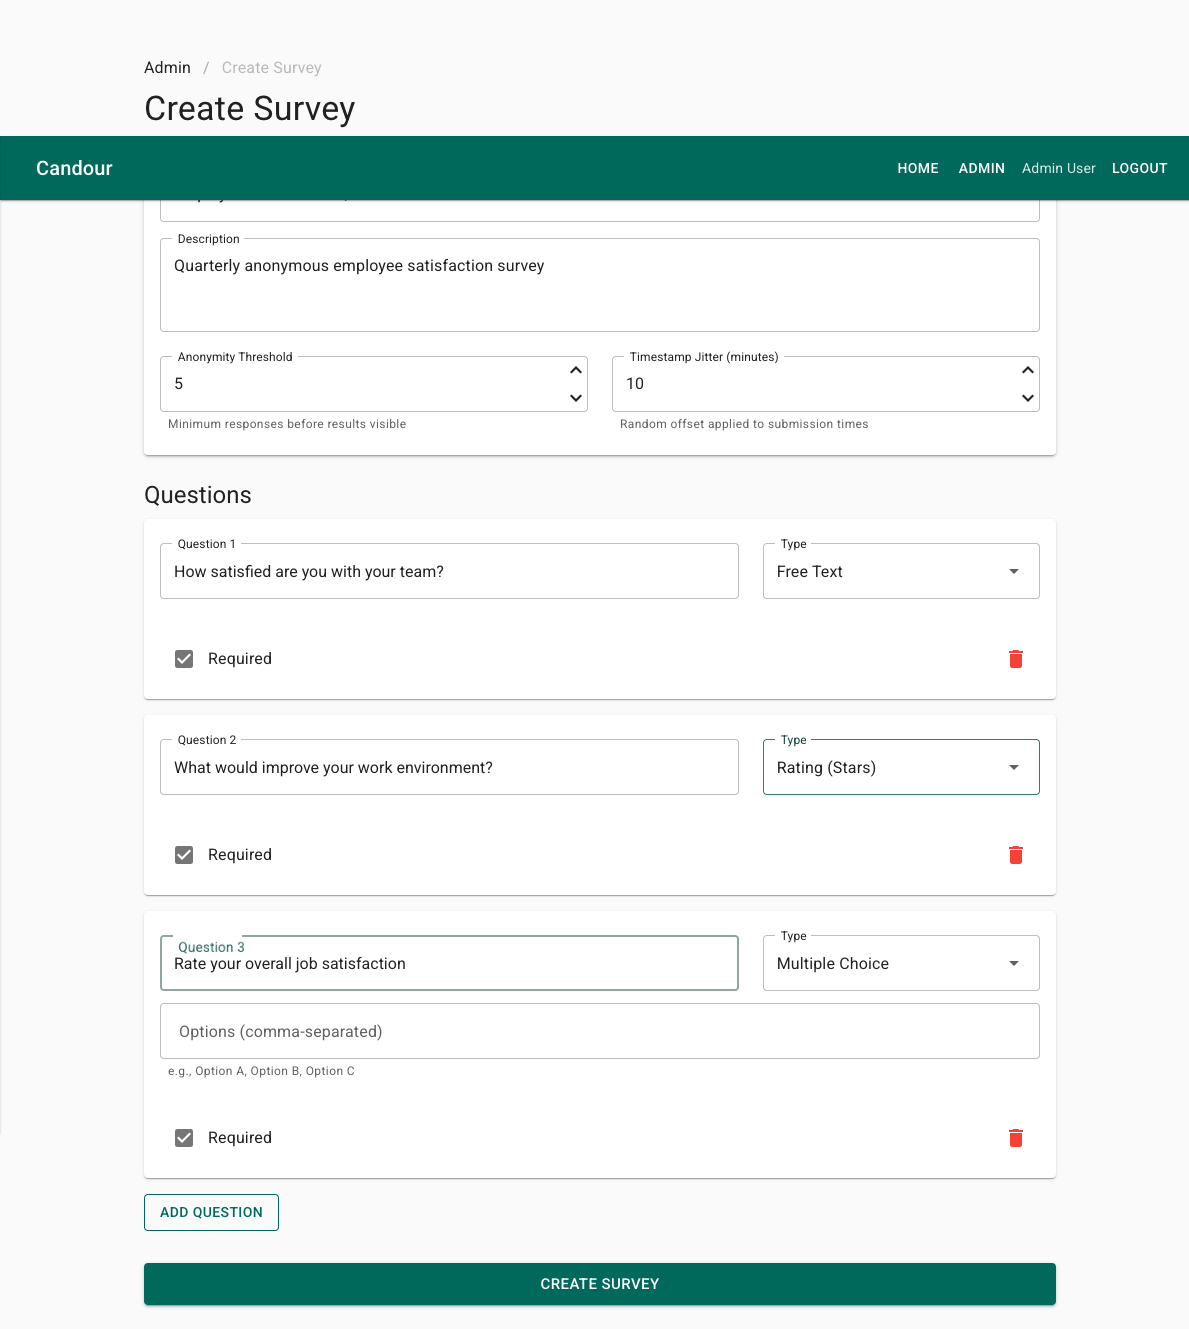
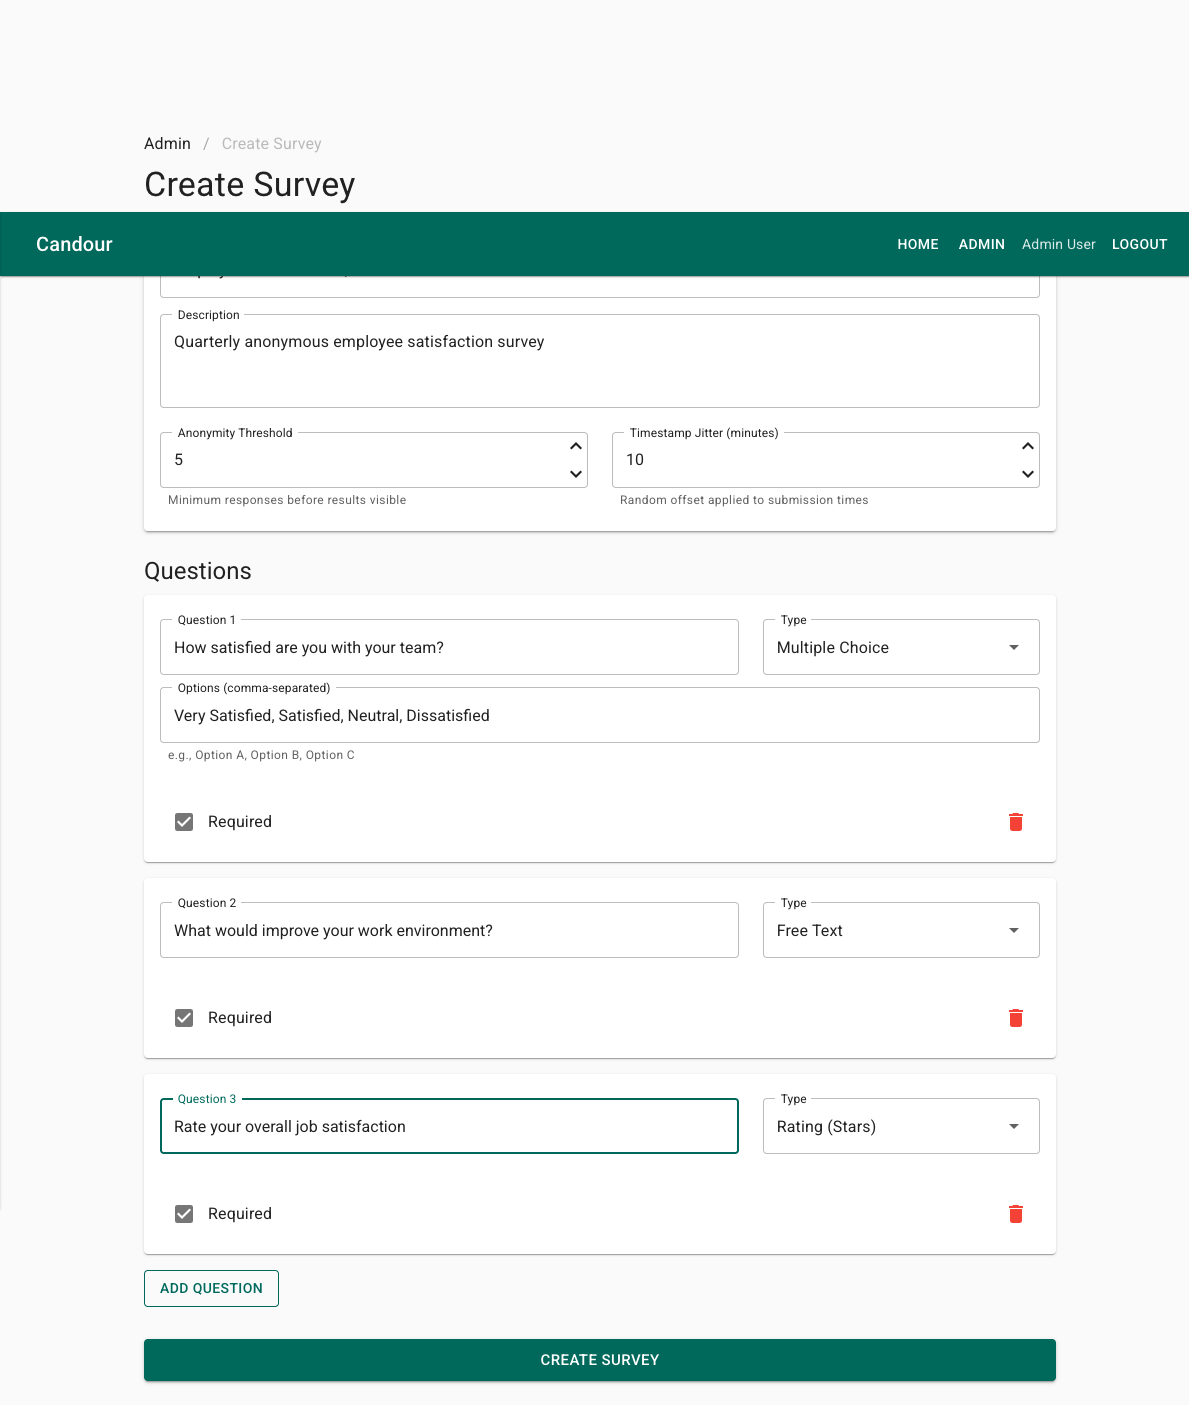
docs: recapture all 13 screenshots after spacing fix, remove design review notes
Screenshots retaken with correct 100px padding-top (no more app bar overlap).
PII redacted. Design review summary removed from USER-JOURNEYS.md.

diff --git a/docs/USER-JOURNEYS.md b/docs/USER-JOURNEYS.md
@@ -5,8 +5,8 @@
 **Date:** 2026-02-27
 **System:** Candour anonymity-first survey platform
 **Infra:** Azure Functions (Flex Consumption), Azure Cosmos DB (Serverless), Azure Static Web Apps
-**Frontend:** https://delightful-forest-005427103.4.azurestaticapps.net
-**API:** https://func-candour-waf2pjwfujduu.azurewebsites.net
+**Frontend:** https://app.candour.example
+**API:** https://api.candour.example
 
 ---
 
@@ -28,7 +28,7 @@
 - Teal app bar with Home / Admin / Logout navigation
 - H3 tagline with proper contrast (no longer pink)
 - Auth-aware CTA: "Get Started" (logged out) → "Go to Dashboard" (authenticated)
-- User name ("Andre Sachs") displayed in nav bar when authenticated
+- User name displayed in nav bar when authenticated
 - How It Works timeline: Create → Share → Analyze
 - Privacy by Design cards with Shield, Key, and Lock icons
 
@@ -85,7 +85,7 @@
 4. Expand "Show Tokens" panel
 5. Use "Copy All Links" to copy all token URLs
 
-**Expected:** Survey status changes to "Active". Token list shows FQDN links in format `https://delightful-forest-005427103.4.azurestaticapps.net/survey/{id}?t=TOKEN`. Each token has an individual copy button. "Copy All Links" copies all URLs to clipboard.
+**Expected:** Survey status changes to "Active". Token list shows FQDN links in format `https://app.candour.example/survey/{id}?t=TOKEN`. Each token has an individual copy button. "Copy All Links" copies all URLs to clipboard.
 
 **Evidence:**
 - ![Published survey with 100 tokens](screenshots/survey-published-tokens.png)
@@ -151,9 +151,9 @@
 
 **Verified:**
 - Breadcrumb navigation: Admin > Employee Satisfaction Q1 2026
-- "Total Responses: 2" displayed
+- "Total Responses: 4" displayed
 - Results table with Option / Count / Percentage columns
-- Very Satisfied: 1 (50.0%), Satisfied: 1 (50.0%), Neutral: 0 (0.0%), Dissatisfied: 0 (0.0%)
+- Very Satisfied: 1 (25.0%), Satisfied: 3 (75.0%), Neutral: 0 (0.0%), Dissatisfied: 0 (0.0%)
 - Results only accessible after admin authentication
 
 ---
@@ -163,7 +163,7 @@
 **Goal:** Verify results are gated when response count is below the anonymity threshold.
 
 **Steps:**
-1. Navigate to admin view of a survey with 0 responses (threshold=1)
+1. Navigate to admin view of a survey with 1 response (threshold=5)
 2. Click "Load Aggregate Results"
 
 **Expected:** Warning alert indicating insufficient responses.
@@ -172,7 +172,7 @@
 - ![Threshold gate warning](screenshots/threshold-gate.png)
 
 **Verified:**
-- Warning alert displayed: "Insufficient responses. Need 1, have 0."
+- Warning alert displayed: "Insufficient responses. Need 5, have 1."
 - No aggregate data exposed when below threshold
 - Results section remains empty — only the warning is shown
 
@@ -251,26 +251,3 @@ Test 5: POST /api/surveys/{id}/validate-token → HTTP 200 {"valid":false,"error
 | `threshold-gate.png` | J5 | Insufficient responses warning |
 | `404-page.png` | J8 | Styled 404 page |
 
----
-
-## Design Review Summary (v0.3.0)
-
-The following issues from the UX/UI design review have been resolved:
-
-| # | Severity | Issue | Status |
-|---|----------|-------|--------|
-| C1 | CRITICAL | Survey page crash for anonymous users | Fixed — keyed DI for public HttpClient |
-| C2 | CRITICAL | Pink tagline fails WCAG AA contrast | Fixed — dark text on white, h3 typography |
-| M1 | MAJOR | Content hidden behind app bar | Fixed — pt-20 padding |
-| M2 | MAJOR | Redundant sidebar on desktop | Fixed — temporary drawer, mobile only |
-| M3 | MAJOR | Plain loading screen | Fixed — branded CSS spinner |
-| M4 | MAJOR | Home page lacks CTA | Fixed — CTA, timeline, icons |
-| M5 | MAJOR | No custom theme, Bootstrap conflicts | Fixed — teal theme, Bootstrap removed |
-| M6 | MAJOR | Broken heading hierarchy | Fixed — proper h1-h6 ordering |
-| m1 | MINOR | Default Blazor error UI | Fixed — styled error boundary |
-| m2 | MINOR | No breadcrumbs (builder) | Fixed — Admin > Create Survey |
-| m3 | MINOR | No breadcrumbs (detail) | Fixed — Admin > {Title} |
-| m4 | MINOR | Raw enum values | Fixed — friendly labels |
-| m5 | MINOR | No delete confirmation | Fixed — dialog prompt |
-| m6 | MINOR | Actions column alignment | Fixed — right-aligned, outlined |
-| m7 | MINOR | Hidden+disabled button | Fixed — conditional render |
